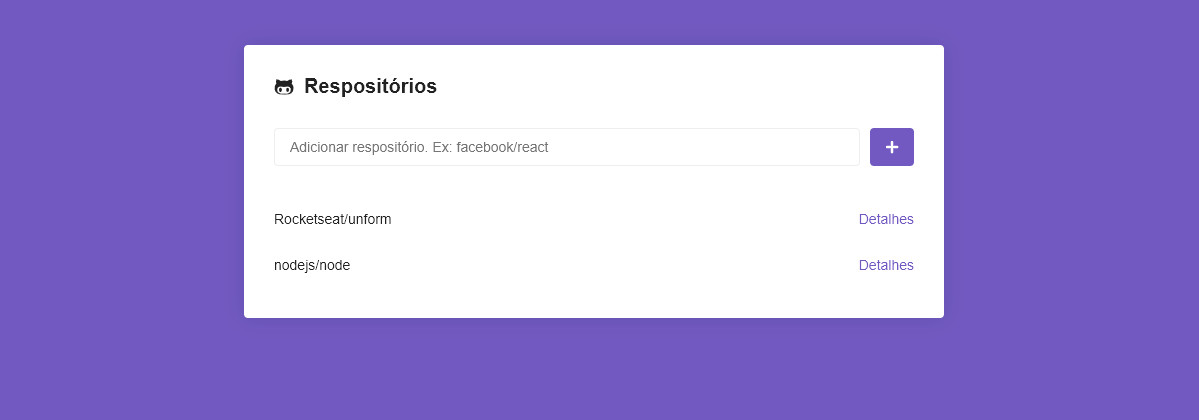
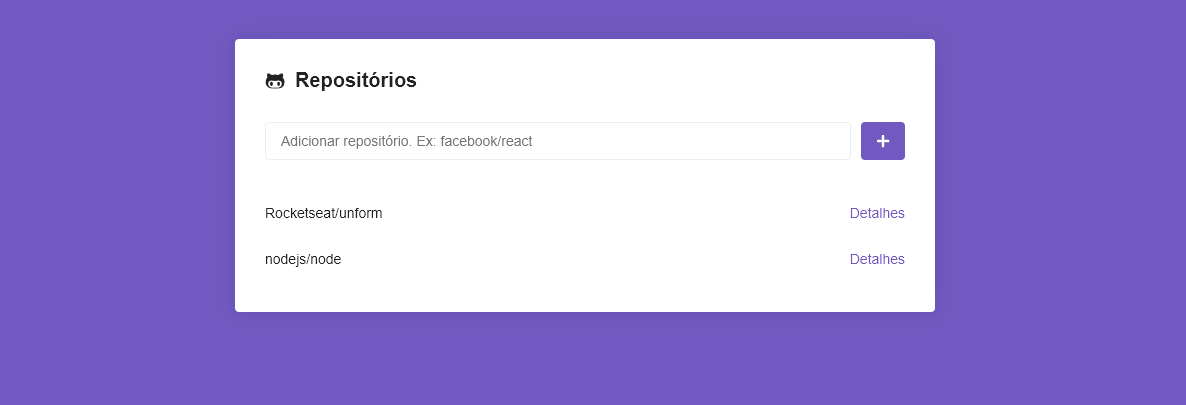
correção

diff --git a/src/pages/Main/index.js b/src/pages/Main/index.js
@@ -67,13 +67,13 @@ class Main extends Component {
             <Container>
                 <h1>
                     <FaGithubAlt />
-                    Respositórios
+                    Repositórios
                 </h1>
 
                 <Form onSubmit={this.handleSubmit}>
                     <input
                         type="text"
-                        placeholder="Adicionar respositório. Ex: facebook/react "
+                        placeholder="Adicionar repositório. Ex: facebook/react "
                         onChange={this.handleInputChange}
                     />
 
